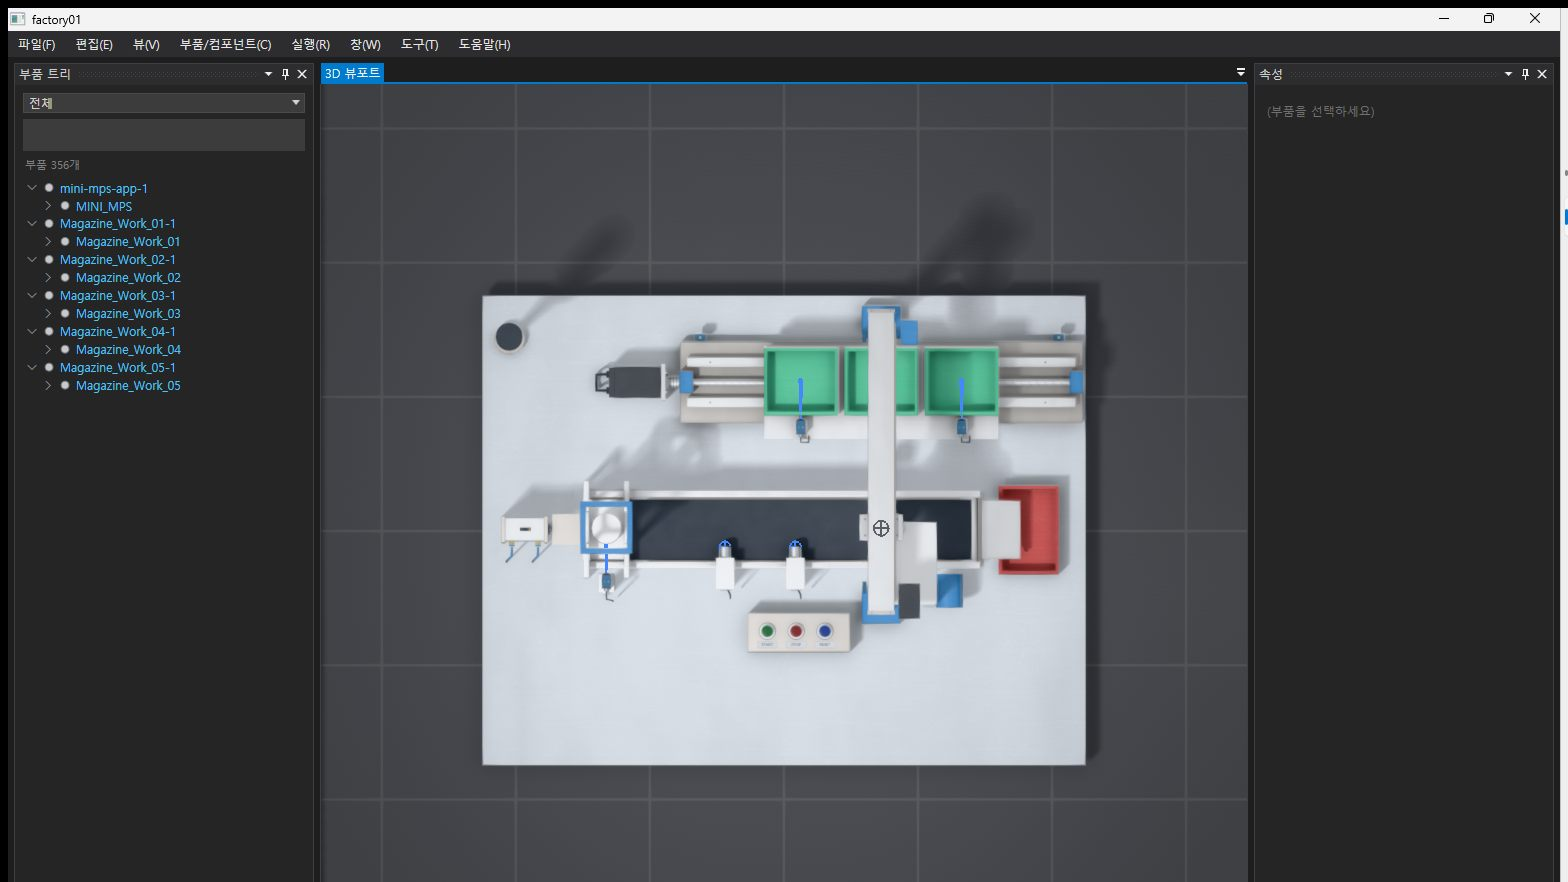
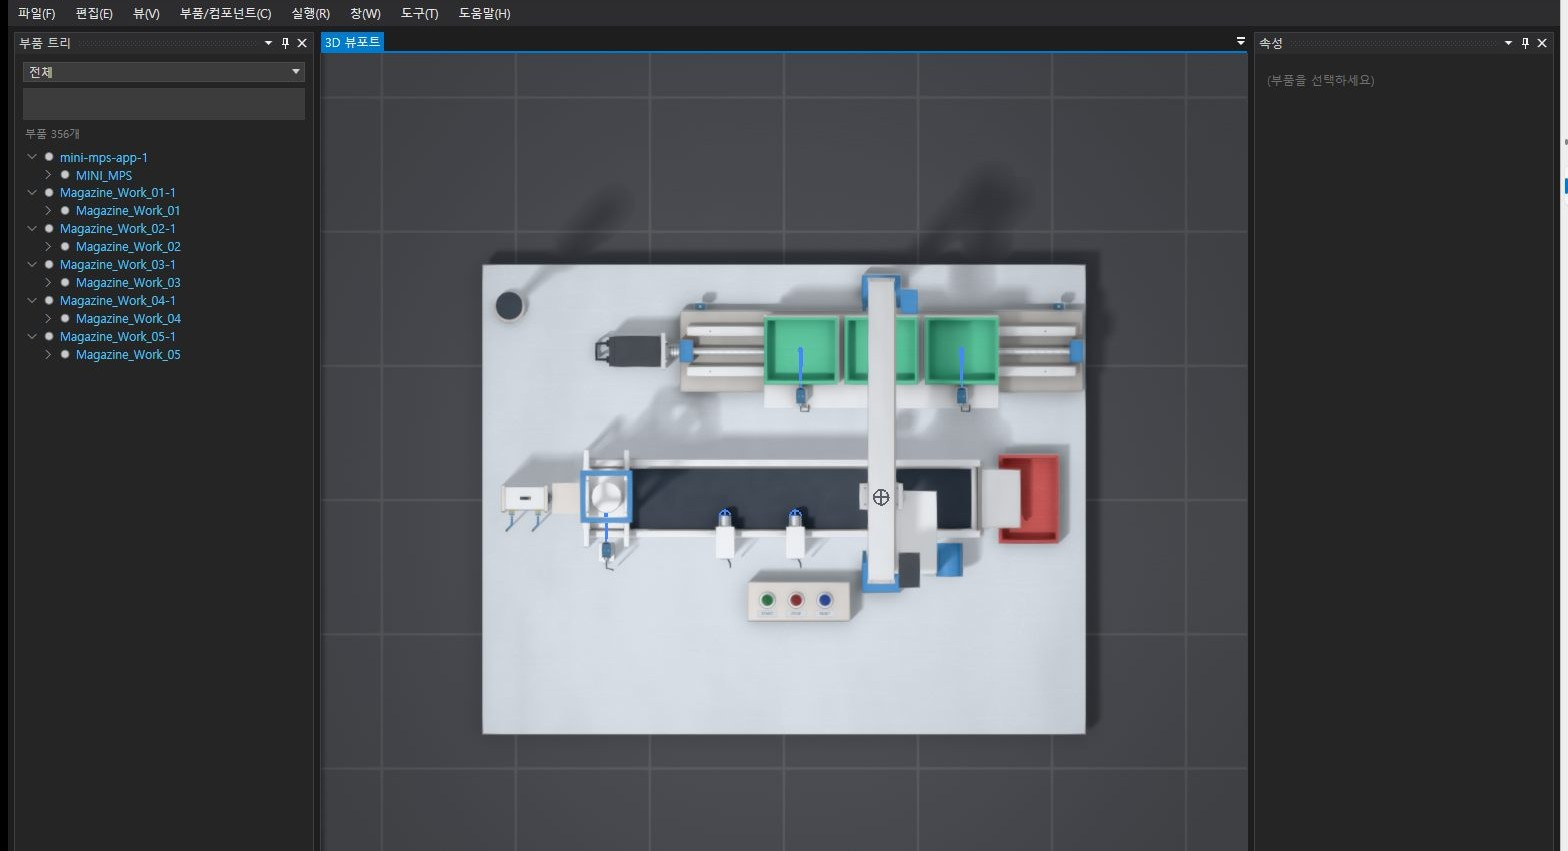
docs: 공개 화면에서 내부 코드명 창 제목과 미사용 GLB 가져오기 캡처 제거
앱 캡처 5장의 창 제목 줄을 잘라내고 대체 텍스트의 내부 코드명을 샘플명으로 바꾼다. STEP 직접 가져오기 기준과 맞지 않는 미사용 GLB 가져오기 캡처를 삭제한다.

diff --git a/docs/index.html b/docs/index.html
@@ -13,7 +13,7 @@
   <link rel="canonical" href="https://plcmanjp.github.io/digitaltwinmax/">
   <link rel="icon" type="image/svg+xml" href="assets/mark.svg?v=brand-3">
   <link rel="stylesheet" href="styles.css?v=product-1">
-  <script src="media-config.js?v=promo-5" defer></script>
+  <script src="media-config.js?v=promo-6" defer></script>
   <script src="media.js?v=product-1" defer></script>
   <script src="viewer.js?v=promo-4" defer></script>
   <script src="site.js?v=brand-3" defer></script>
@@ -43,7 +43,7 @@
       </div>
       <figure class="hero-figure">
         <button type="button" class="zoom-frame" aria-haspopup="dialog">
-          <img src="assets/app-scene-iso.jpg" width="1568" height="882" alt="디지털트윈맥스에서 MINI MPS 샘플을 연 등각 화면. 컨베이어, 신호등, 공급 매거진과 이송부가 보인다.">
+          <img src="assets/app-scene-iso.jpg" width="1568" height="851" alt="디지털트윈맥스에서 MINI MPS 샘플을 연 등각 화면. 컨베이어, 신호등, 공급 매거진과 이송부가 보인다.">
           <span class="sr-only">확대</span>
         </button>
         <figcaption>MINI MPS 샘플을 연 실제 앱 화면입니다. 이미지를 누르면 확대됩니다.</figcaption>
@@ -86,7 +86,7 @@
             </div>
             <figure>
               <button type="button" class="zoom-frame" aria-haspopup="dialog">
-                <img src="assets/feature-component-io.jpg" width="1552" height="1000" loading="lazy" alt="MINI MPS의 SupplyCylinder_Pusher를 선택한 화면. 오른쪽 실린더 컴포넌트에 전진 거리 55mm와 I/O 매핑의 밸브 출력 Y1, Y2가 보인다.">
+                <img src="assets/feature-component-io.jpg" width="1552" height="977" loading="lazy" alt="MINI MPS의 SupplyCylinder_Pusher를 선택한 화면. 오른쪽 실린더 컴포넌트에 전진 거리 55mm와 I/O 매핑의 밸브 출력 Y1, Y2가 보인다.">
                 <span class="sr-only">확대</span>
               </button>
               <figcaption>선택한 실린더의 구동 거리와 I/O 매핑을 설정합니다. A 측과 B 측 밸브에 Y1, Y2가 할당되어 있습니다.</figcaption>
@@ -101,7 +101,7 @@
             </div>
             <figure>
               <button type="button" class="zoom-frame" aria-haspopup="dialog">
-                <img src="assets/feature-plc-settings.jpg" width="1552" height="1000" loading="lazy" alt="PLC 통신 설정창에서 MX Component가 선택된 화면. 논리 국번 입력란과 메모리 시뮬레이션 옵션이 있으며 연결 상태는 미연결이다.">
+                <img src="assets/feature-plc-settings.jpg" width="1552" height="977" loading="lazy" alt="PLC 통신 설정창에서 MX Component가 선택된 화면. 논리 국번 입력란과 메모리 시뮬레이션 옵션이 있으며 연결 상태는 미연결이다.">
                 <span class="sr-only">확대</span>
               </button>
               <figcaption>PLC 통신 방식과 논리 국번을 지정하는 설정 화면입니다. 이 장면은 MX Component 선택 상태이며, 실제 PLC에는 연결하지 않았습니다.</figcaption>
@@ -156,12 +156,12 @@
           <summary>다른 시점과 부품 선택 화면 보기</summary>
           <div class="scene-grid scene-grid-3">
           <article>
-            <button type="button" class="zoom-frame" aria-haspopup="dialog"><img src="assets/app-scene-top.jpg" width="1568" height="882" loading="lazy" alt="MINI MPS 샘플의 위 시점. 컨베이어와 매거진, 조작 버튼의 배치가 보인다."><span class="sr-only">확대</span></button>
+            <button type="button" class="zoom-frame" aria-haspopup="dialog"><img src="assets/app-scene-top.jpg" width="1568" height="851" loading="lazy" alt="MINI MPS 샘플의 위 시점. 컨베이어와 매거진, 조작 버튼의 배치가 보인다."><span class="sr-only">확대</span></button>
             <h3>위에서 본 배치</h3>
             <p>컨베이어와 매거진, 조작 버튼의 위치를 한 평면에서 확인합니다.</p>
           </article>
           <article>
-            <button type="button" class="zoom-frame" aria-haspopup="dialog"><img src="assets/app-scene-front.jpg" width="1568" height="882" loading="lazy" alt="MINI MPS 샘플의 정면 가상 실행 화면. 재생 막대와 설비의 옆모습이 보인다."><span class="sr-only">확대</span></button>
+            <button type="button" class="zoom-frame" aria-haspopup="dialog"><img src="assets/app-scene-front.jpg" width="1568" height="851" loading="lazy" alt="MINI MPS 샘플의 정면 가상 실행 화면. 재생 막대와 설비의 옆모습이 보인다."><span class="sr-only">확대</span></button>
             <h3>정면의 동작</h3>
             <p>정면 시점으로 바꿔 설비의 옆모습을 살펴봅니다.</p>
           </article>

diff --git a/docs/media-config.js b/docs/media-config.js
@@ -7,7 +7,7 @@ window.DTM_MEDIA = {
   images: [
     {
       src: "assets/app-scene-iso.jpg",
-      alt: "factory01 등각 시점. 3D 뷰포트 가운데에 컨베이어, 신호등, 매거진이 있는 샘플 설비가 보인다.",
+      alt: "MINI MPS 샘플의 등각 시점. 3D 뷰포트 가운데에 컨베이어, 신호등, 매거진이 있는 샘플 설비가 보인다.",
       title: "등각 시점",
       caption: "샘플 설비를 연 편집 화면입니다."
     },
